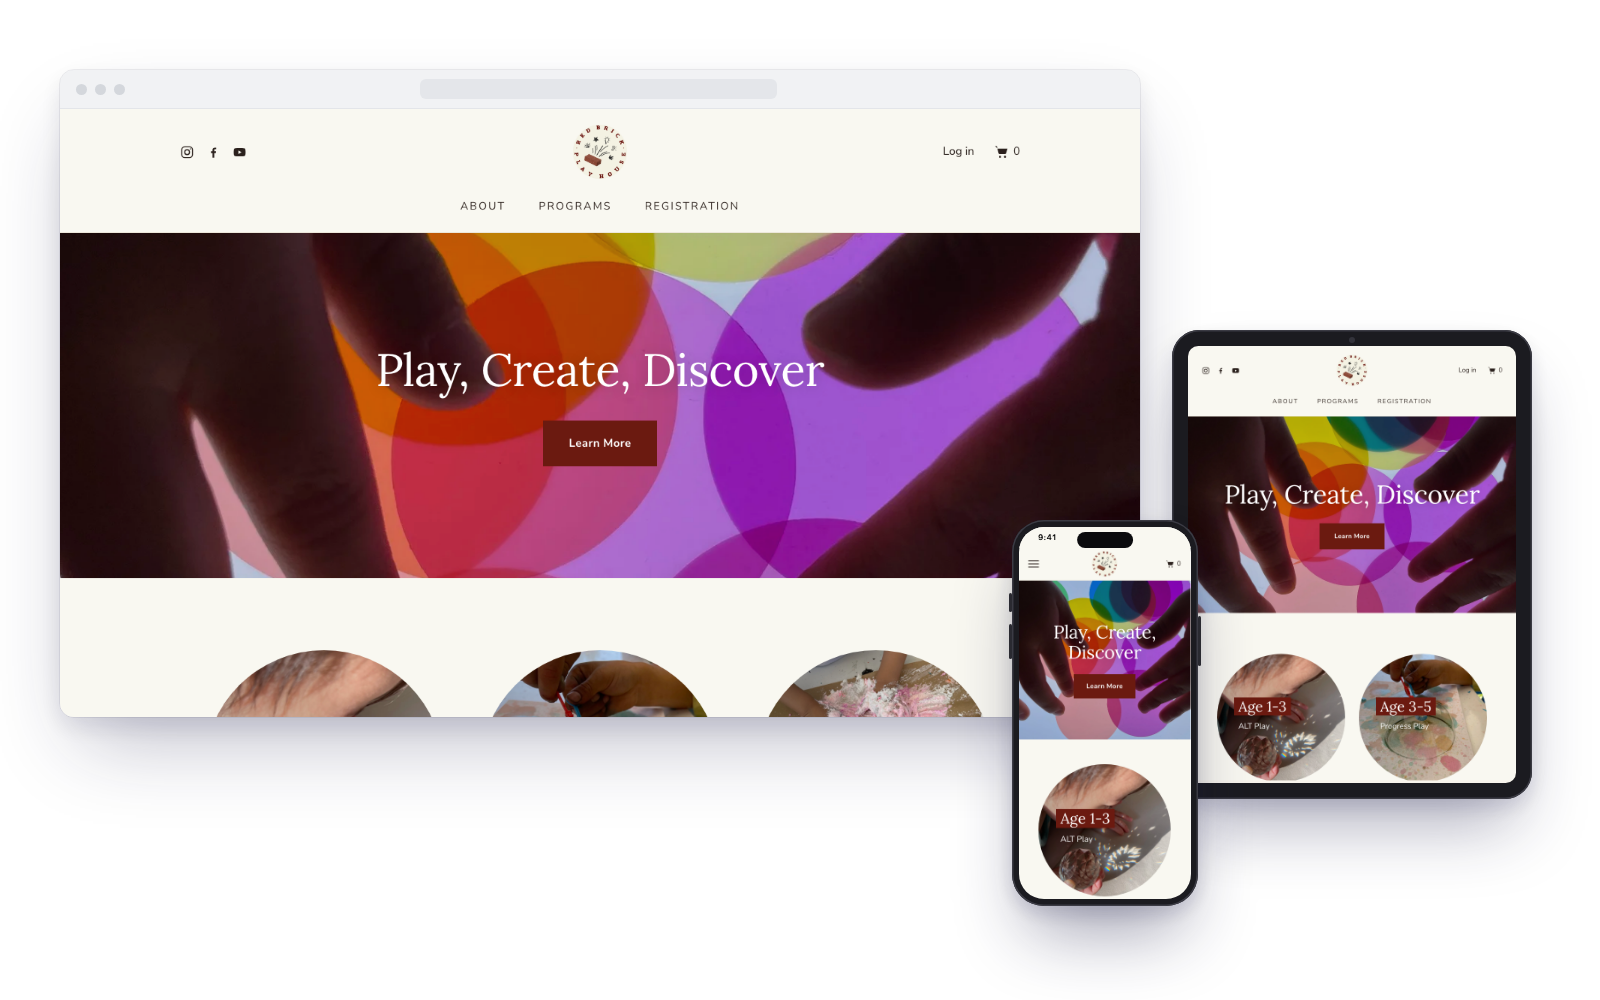
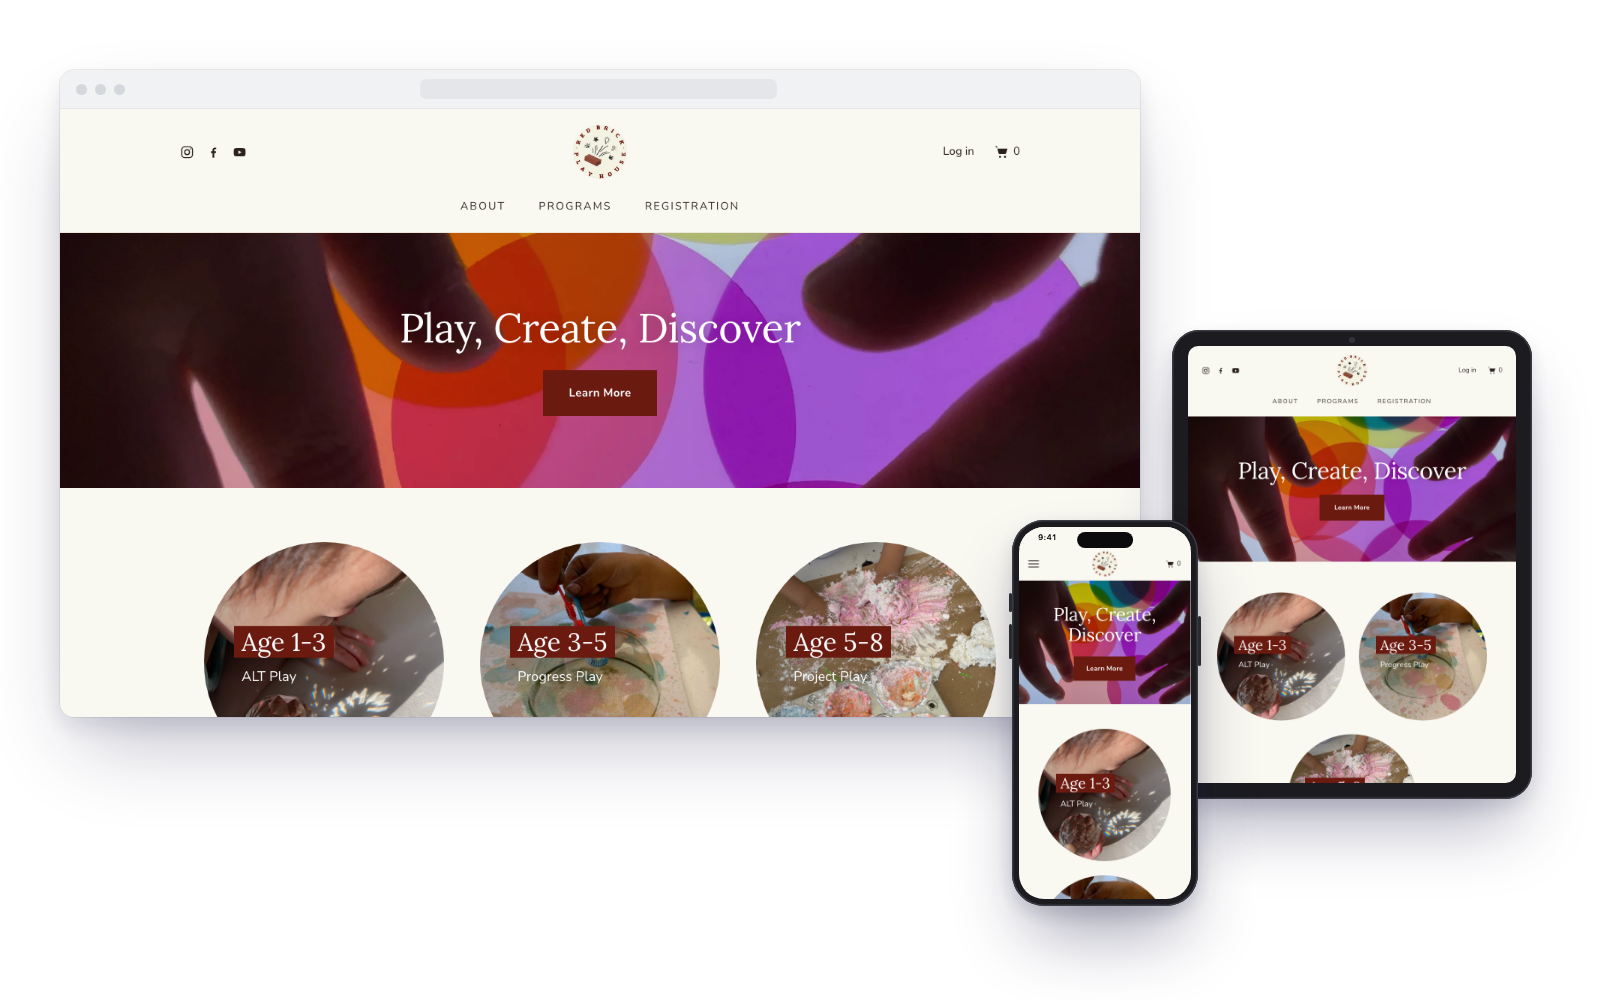
Shorter Playhouse hero, versioned image URLs, restore fuller descriptions, drop mobile gallery shot

Changed region(s): [[0.0312, 0.217, 0.9688, 0.899]]

diff --git a/projects.js b/projects.js
@@ -28,7 +28,7 @@ const PROJECTS = [
     role: "Product design · Mobile development",
     summary: "A family planner app that tracks kids' activities, who's driving, and what to bring.",
     details:
-      "Parents see each child's week at a glance, colour-coded by kid, with who's driving and a \"Don't forget\" list on every event. Recurring events, month and week views and timed reminders run on iOS, Android and the web from one codebase. The trickiest part was making reminders fire exactly on time, including across daylight-saving changes.",
+      "I took 4PM Planner from idea to working product, designing the experience and building the app myself. Parents see each child's activities at a glance, colour-coded by kid, with drop-off and pickup assignments and a \"Don't forget\" list for every event. It supports weekly recurring events, a month and week calendar, and reminders before each event and pickup, and it runs on iOS, Android and the web from one codebase. The toughest problem was making reminders fire at exactly the right time, including across daylight-saving changes and Android's exact-alarm permission.",
     tools: ["React Native", "Expo", "TypeScript", "Supabase"],
     image: "",
     screens: ["images/4pm-today.jpg", "images/4pm-calendar.png", "images/4pm-event.png"],
@@ -41,17 +41,16 @@ const PROJECTS = [
     type: "Client project",
     areas: ["ux", "dev"],
     year: "",
-    role: "Web design · Squarespace build · Branding & content",
+    role: "Web design · Development · Branding & content",
     summary: "A warm, playful website for a children's art studio, with programs, camps and online registration.",
     details:
-      "Families can browse age-based programs and summer camps and register online. I designed the site and built it on Squarespace, adding custom CSS and JavaScript where the templates fell short, and worked on the branding and content around a warm cream and brick-red palette.",
-    tools: ["Squarespace", "CSS", "JavaScript"],
+      "Red Brick Playhouse is a children's art and play studio in Coquitlam, BC. I designed and built their website on Squarespace, extended the platform with custom CSS and JavaScript, and worked on the branding and content. The site introduces three age-based programs (ALT Play for ages 1–3, Progress Play for 3–5 and Project Play for 5–8) along with summer camps, and lets families register online. A warm cream and brick-red palette, a playful badge logo and bright, hands-on photography carry the studio's creative personality across every page.",
+    tools: ["Squarespace", "Custom CSS", "JavaScript"],
     image: "images/mock-redbrick.png",
     color: "#6b1a10",
     links: { live: "https://www.redbrickplayhouse.com/", liveLabel: "Visit the live site", code: "" },
     gallery: [
       { src: "images/redbrick-home.jpg", caption: "Homepage" },
-      { src: "images/redbrick-mobile.png", caption: "Homepage on mobile" },
       { src: "images/redbrick-altplay.jpg", caption: "Program page: ALT Play" },
     ],
     note: "The client has since edited the live site. These screens show the original design, with its spacing and layout cleaned up for this portfolio.",
@@ -64,7 +63,7 @@ const PROJECTS = [
     role: "UX research · UI design · Prototyping",
     summary: "A mobile app for buying disposable cameras and mailing them back for film development.",
     details:
-      "Users compare disposable cameras by photo style, buy one, mail it back prepaid, and get their photos digitally and as prints. Research showed everyone loved the film look, but 83% found mailing or dropping off film the biggest hurdle. A persona, journey map and user flow shaped the wireframes; in the final design I moved Add to Cart above the photo previews so the main action is visible without scrolling.",
+      "Windback is a mobile app that makes film photography easy from start to finish. Users compare disposable cameras by photo style, buy one, mail it back with prepaid shipping, and get their photos digitally and as prints. I started with research: a questionnaire and two interviews showed that everyone loved the grainy vintage look, but 83% said mailing or dropping off film was the biggest barrier, and all of them wanted one app to handle it all. From there I built a persona, a user scenario and a journey map, mapped the user flow, then designed the screens and a clickable prototype in Figma. Moving from wireframes to the final design, I moved the Add to Cart button above the photo-style previews so the main action is visible without scrolling.",
     tools: ["Interviews & surveys", "Personas", "Journey mapping", "Wireframing", "Figma"],
     image: "",
     screens: [
@@ -92,7 +91,7 @@ const PROJECTS = [
     role: "UI design · Interactive prototyping",
     summary: "A custom tote bag shop where shoppers pick a bag colour and print and preview it live.",
     details:
-      "A desktop shop where customers design their own tote and watch it update as they choose a colour and print. The prototype is built on reusable components with variants: an active-state navbar, a hero carousel, colour and print pickers, gallery filters and a cart overlay.",
+      "Canvas Club is a desktop e-commerce website where shoppers design their own tote bag. I designed and prototyped it in Figma around a reusable component system: a navbar that shows the active page, a hero carousel on the Home page, colour and print pickers (four variants each) that update the bag preview in real time, a Gallery page with working category filters, and a cart overlay that opens from the cart icon and buttons.",
     tools: ["Figma", "Wireframing", "Components & variants"],
     image: "images/mock-canvasclub.png",
     color: "#e98c78",
@@ -110,10 +109,10 @@ const PROJECTS = [
     type: "Client project",
     areas: ["ux", "dev"],
     year: "",
-    role: "Web design · WordPress development",
+    role: "Web design · Custom theme development",
     summary: "A custom WordPress website for a travel agency specializing in rail travel.",
     details:
-      "Tours are organized by region (Canada, USA and international), and a trip planner lets visitors request quotes for round-trip, one-way or multi-city journeys. A custom theme matched the brand exactly while keeping content easy for the client to update.",
+      "I designed and built a custom WordPress theme for West Coast Rail Tours, a travel agency that specializes in rail travel. The site organizes tours by region (Canada, USA and international) and includes a trip planner that lets visitors request a quote for round-trip, one-way or multi-city journeys. Building it as a custom theme gave the client a site that matched their brand exactly while staying easy for them to update.",
     tools: ["WordPress", "PHP", "JavaScript"],
     image: "images/mock-wcrt.png",
     color: "#6b8f5e",
@@ -127,7 +126,7 @@ const PROJECTS = [
     role: "UX/UI redesign · Front-end development",
     summary: "A redesign of the program's website, chosen from competing proposals and launched as the official site.",
     details:
-      "The redesign puts the most-used sections (schedule, faculty, courses, IT certifications and resources) up front, in a layout that adapts from desktop to phone. It was chosen from a field of competing proposals and launched as BCIT's official site for the Technology Support Professional program.",
+      "I redesigned and built the website for BCIT's Technology Support Professional program to improve its usability and visual design. My design was chosen from a field of competing proposals and launched as the program's official website. The layout puts the most important sections (schedule, faculty, courses, IT certifications and resources) up front, and it adapts from desktop to tablet to phone.",
     tools: ["Responsive design", "HTML", "CSS", "PHP"],
     image: "images/mock-tsp.png",
     color: "#b5562a",
@@ -141,7 +140,7 @@ const PROJECTS = [
     role: "Web design · Front-end development",
     summary: "A fully responsive photo blog celebrating Audrey Hepburn.",
     details:
-      "A black-and-white masonry photo grid that reflows from a desktop sidebar layout to a compact mobile view, designed and coded from scratch.",
+      "A responsive photo blog concept about Audrey Hepburn, designed and coded from scratch. It uses a black-and-white masonry photo grid that reflows from a desktop sidebar layout to a compact mobile view.",
     tools: ["HTML", "CSS", "JavaScript"],
     image: "images/mock-audrey.png",
     color: "#333333",
@@ -155,7 +154,7 @@ const PROJECTS = [
     role: "Web design · Front-end development",
     summary: "A catalog website concept for a vintage camera shop.",
     details:
-      "A five-page catalog site for a fictional vintage camera shop. A badge-style logo, textured paper background, thin rules and soft pink accents set an analogue mood, while simple navigation keeps the cameras front and centre.",
+      "A catalog website for a fictional vintage camera shop, designed and coded as a school project. The design sets a quiet, analogue mood to match the products: a badge-style logo, a textured paper background, generous white space, thin rule lines and soft pink accents. Across five pages (home with new arrivals, a camera gallery, about, service and contact) I focused on a clear navigation structure, consistent typography and a layout that keeps the cameras front and centre.",
     tools: ["HTML", "CSS"],
     image: "images/mock-vintage.png",
     color: "#e46a7a",

diff --git a/script.js b/script.js
@@ -1,4 +1,7 @@
 const grid = document.getElementById("projectGrid");
+// Bump this whenever images are replaced, so browsers load the new files.
+const IMG_V = "19";
+const img = (src) => (/^https?:/.test(src) ? src : `${src}?v=${IMG_V}`);
 const dialog = document.getElementById("projectDialog");
 const dlgBody = document.getElementById("dlgBody");
 
@@ -10,11 +13,11 @@ function esc(s) {
 function thumb(p) {
   if (p.screens && p.screens.length) {
     return `<div class="phones" style="--c:${esc(p.color || "#ccc")};--n:${p.screens.length}">${p.screens
-      .map((s, n) => `<img src="${esc(s)}" alt="${esc(p.title)} screen ${n + 1}" loading="lazy">`)
+      .map((s, n) => `<img src="${esc(img(s))}" alt="${esc(p.title)} screen ${n + 1}" loading="lazy">`)
       .join("")}</div>`;
   }
   return p.image
-    ? `<img src="${esc(p.image)}" alt="${esc(p.title)} preview" loading="lazy"${p.fit === "cover" ? ' class="cover"' : ""}>`
+    ? `<img src="${esc(img(p.image))}" alt="${esc(p.title)} preview" loading="lazy"${p.fit === "cover" ? ' class="cover"' : ""}>`
     : `<div class="placeholder" style="--c:${esc(p.color || "#ccc")}"><span>${esc(p.title.charAt(0))}</span></div>`;
 }
 
@@ -57,7 +60,7 @@ function openProject(p) {
     <div class="gallery">${p.gallery
       .map((g) => `
       <figure>
-        <a href="${esc(g.src)}" target="_blank" rel="noopener" title="Open full size"><img src="${esc(g.src)}" alt="${esc(g.caption)}" loading="lazy"></a>
+        <a href="${esc(img(g.src))}" target="_blank" rel="noopener" title="Open full size"><img src="${esc(img(g.src))}" alt="${esc(g.caption)}" loading="lazy"></a>
         <figcaption>${esc(g.caption)}</figcaption>
       </figure>`)
       .join("")}

diff --git a/index.html b/index.html
@@ -8,7 +8,7 @@
   <link rel="preconnect" href="https://fonts.googleapis.com">
   <link rel="preconnect" href="https://fonts.gstatic.com" crossorigin>
   <link href="https://fonts.googleapis.com/css2?family=Lato:wght@300;400;700&display=swap" rel="stylesheet">
-  <link rel="stylesheet" href="styles.css?v=18">
+  <link rel="stylesheet" href="styles.css?v=19">
 </head>
 <body>
   <a class="skip" href="#work">Skip to work</a>
@@ -108,7 +108,7 @@
     <div id="dlgBody"></div>
   </dialog>
 
-  <script src="projects.js?v=18"></script>
-  <script src="script.js?v=18"></script>
+  <script src="projects.js?v=19"></script>
+  <script src="script.js?v=19"></script>
 </body>
 </html>
